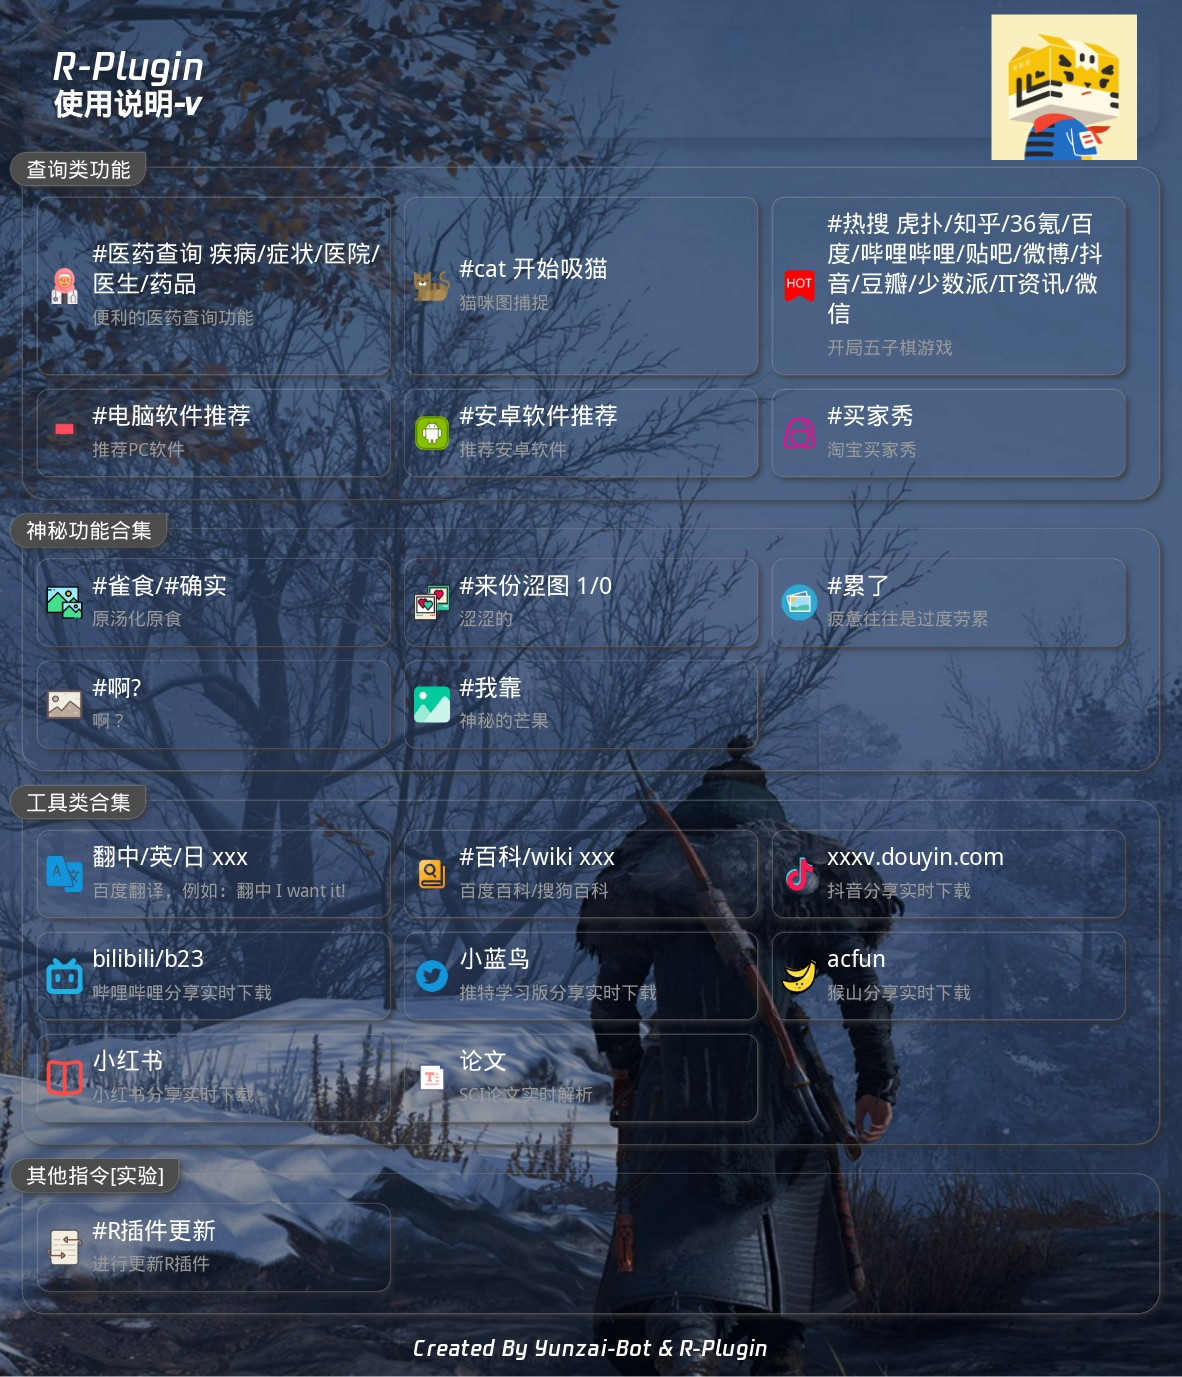
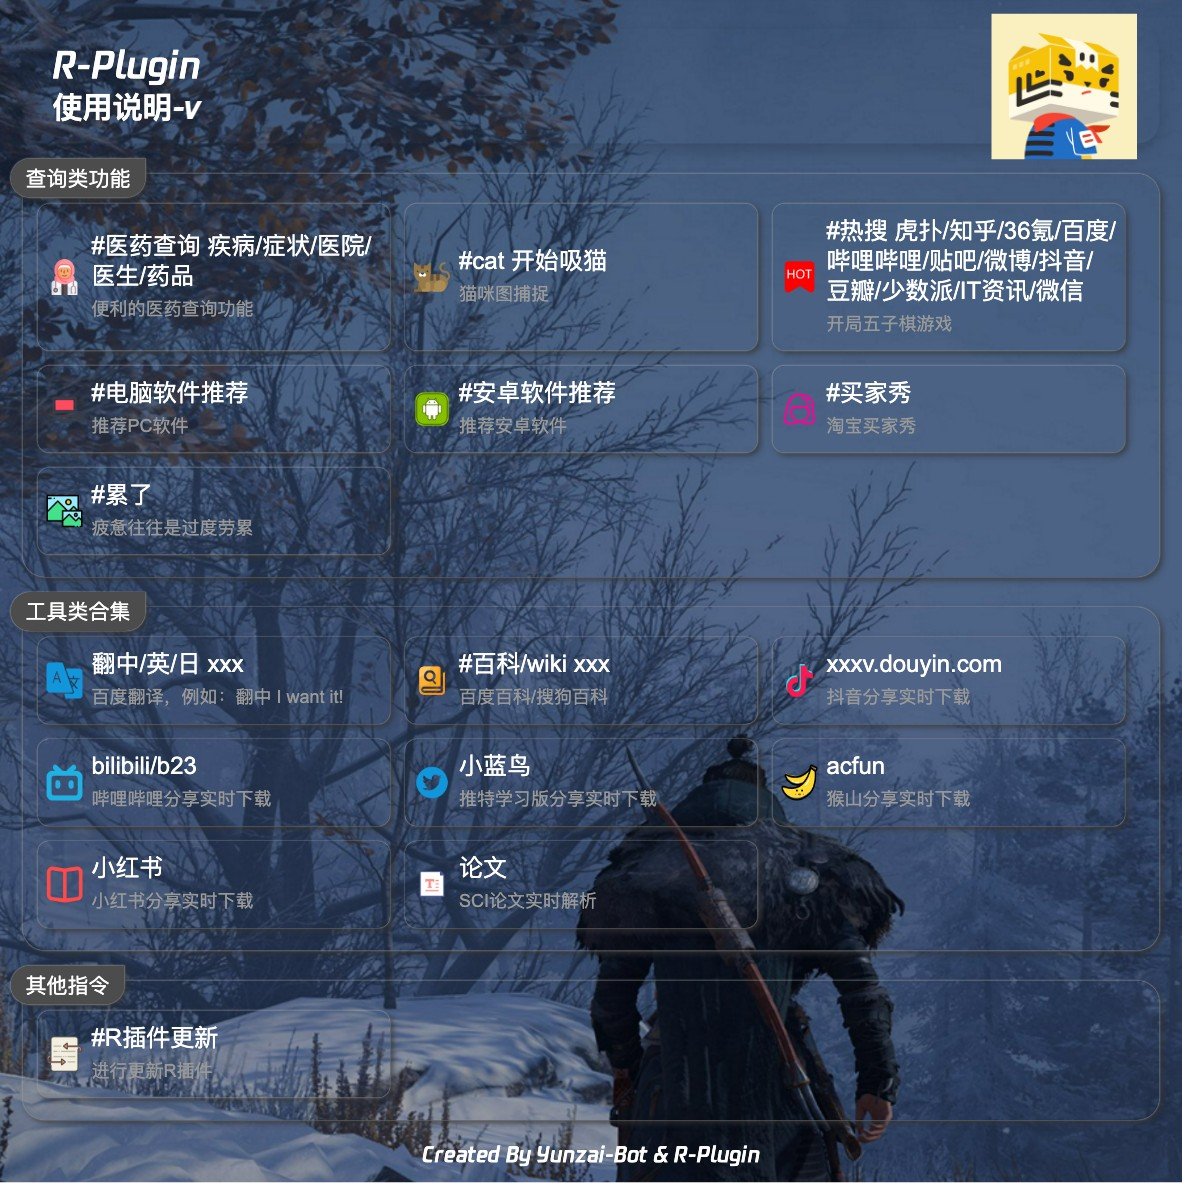
🎈 perf: 精简功能

diff --git a/apps/query.js b/apps/query.js
@@ -43,6 +43,10 @@ export class query extends plugin {
                     reg: "#买家秀",
                     fnc: "buyerShow",
                 },
+                {
+                    reg: "^#(累了)$",
+                    fnc: "cospro",
+                }
             ],
         });
         this.catConfig = config.getConfig("query");
@@ -292,6 +296,27 @@ export class query extends plugin {
             });
         });
         return true;
+    }
+
+    async cospro(e) {
+        let req = [
+            ...(await fetch("https://imgapi.cn/cos2.php?return=jsonpro")
+                .then(resp => resp.json())
+                .then(json => json.imgurls)),
+            ...(await fetch("https://imgapi.cn/cos.php?return=jsonpro")
+                .then(resp => resp.json())
+                .then(json => json.imgurls)),
+        ];
+        e.reply("哪天克火掉一定是在这个群里面...");
+        let images = [];
+        req.forEach(item => {
+            images.push({
+                message: segment.image(encodeURI(item)),
+                nickname: this.e.sender.card || this.e.user_id,
+                user_id: this.e.user_id,
+            });
+        });
+        return !!(await this.reply(await Bot.makeForwardMsg(images)));
     }
 
     // 删除标签
